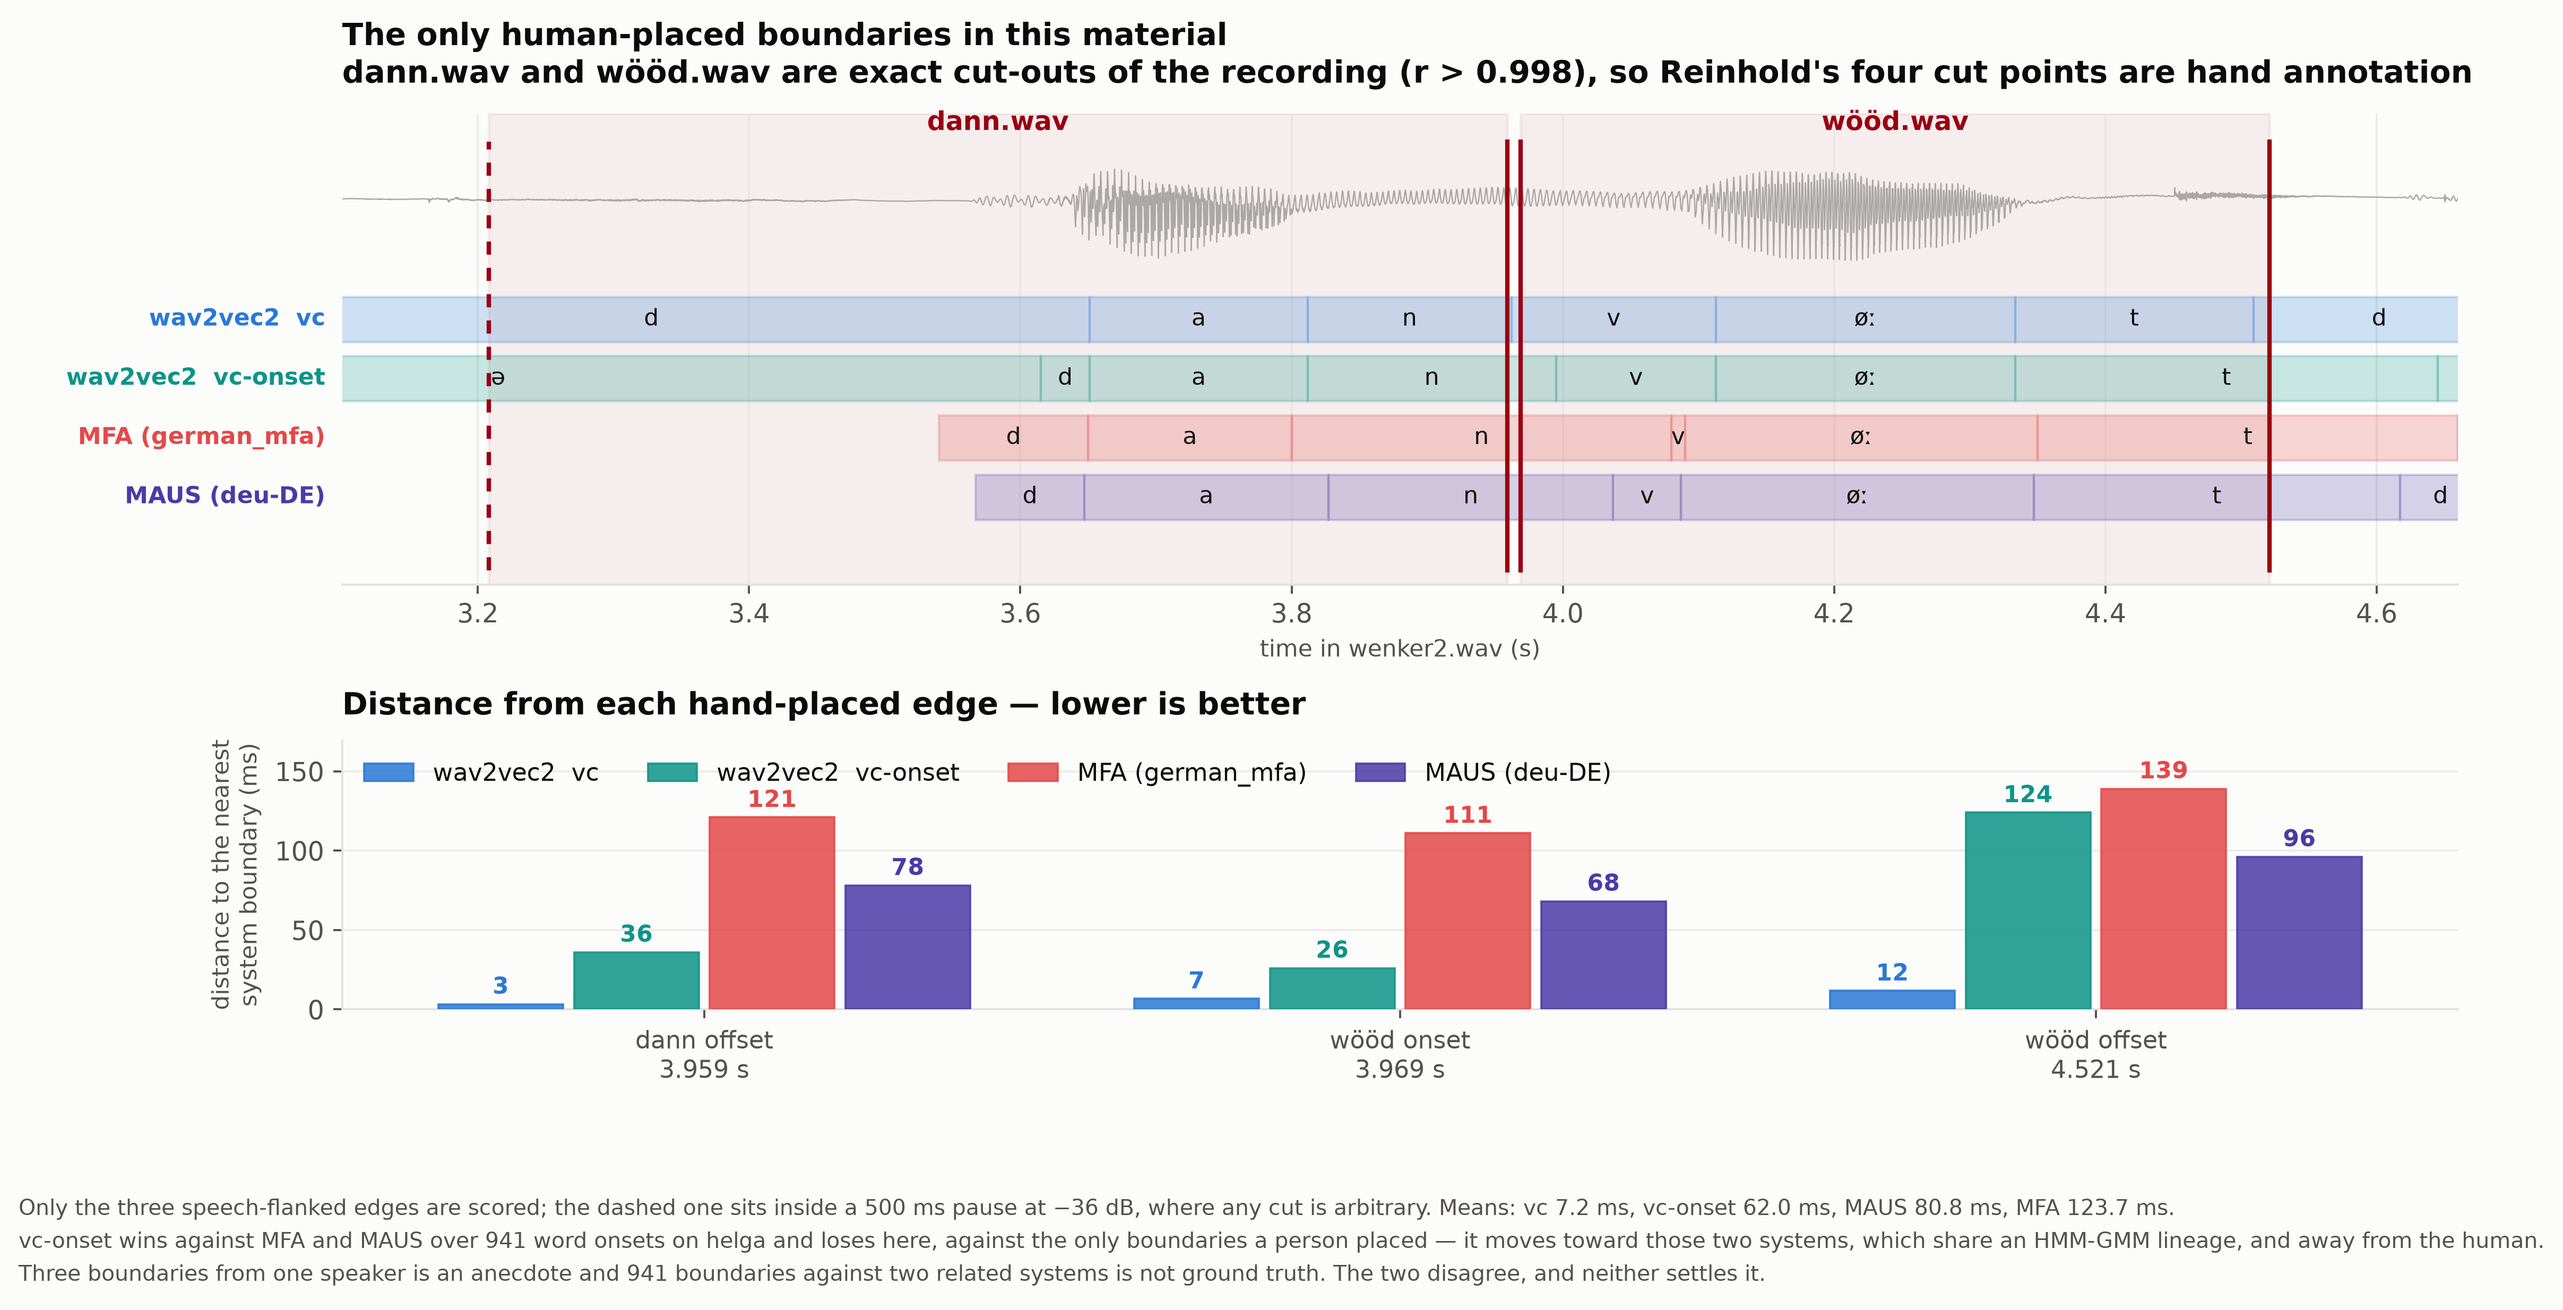
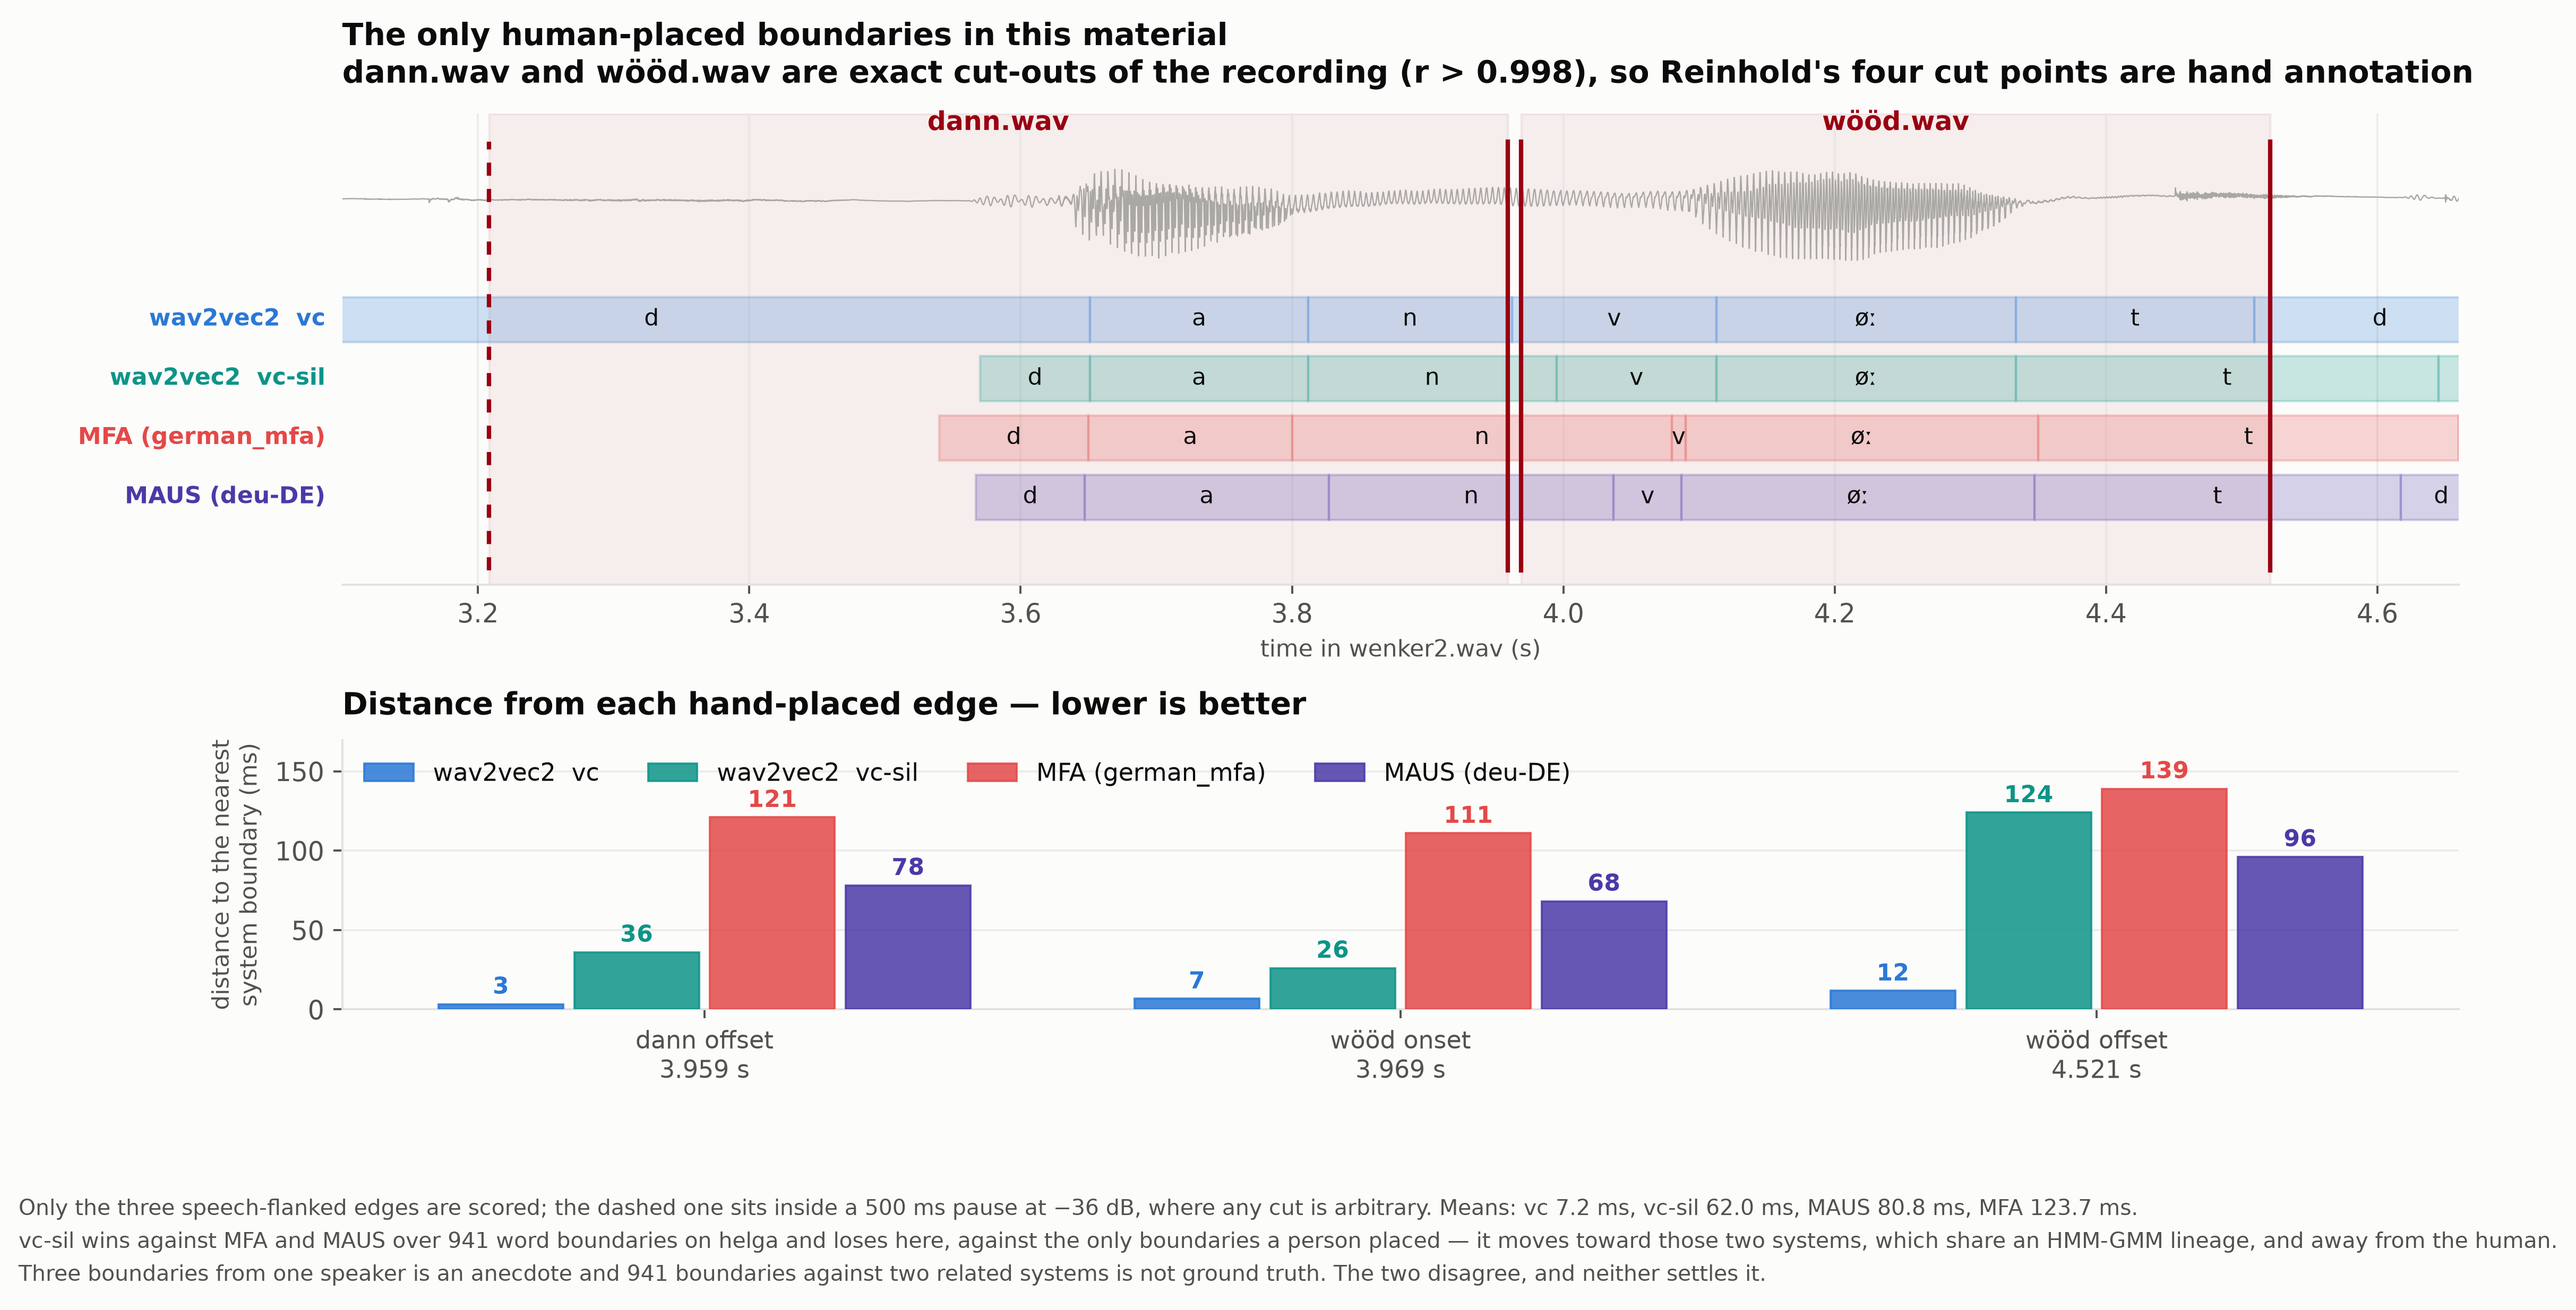
vc-sil: emit the pause instead of feeding it to the previous phone
Reported: after fixing the onset, 'the final vowels or consonants from the
previous words are extended, it supposes to be a silent'. Exactly right, and
measurable -- on wenker2 the final schwa of shnaie came out 800 ms under
vc-onset against MFA's 160, because the 620 ms MFA labels as silence had nowhere
to go but into the phone in front of it. Across the file wav2vec2 emitted 0 ms of
inter-word silence where MFA emitted 800.

The cause is that vc-onset treats a word boundary as ONE event. It is three: the
previous word ends, there is silence, the next word begins. vc-sil detects the
pause span and ends the previous phone at its start, begins the next at its end,
and leaves the middle unlabelled -- an empty interval, which is what MFA and MAUS
produce. The schwa drops 800 -> 245 ms; silence emitted goes 0 -> 860 against
MFA's 800 and MAUS's 750.

941 word boundaries over the 84 helga recordings, both references, median |d|:

                  onset vs MFA  end vs MFA  onset vs MAUS  end vs MAUS
    vc                 62.1 ms     57.2 ms        73.9 ms      70.3 ms
    vc-onset           40.0        55.0           45.4         55.4
    vc-sil             40.0        50.0           45.4         52.9

vc-sil dominates vc-onset on every column, so the figures now draw vc-sil in its
place -- and the gaps in the teal row of vc_vs_hybrid_*.png are the pauses,
visible for the first time.

vc REMAINS THE DEFAULT. Both onset-aware modes still lose to it against the three
[…]

diff --git a/README.md b/README.md
@@ -138,7 +138,8 @@ kept 42.
 | `even` | split down the middle |
 | `hybrid` | cut at the **spectral-change peak** inside a word; posterior-weighted across word edges |
 | **`vc`** ← **use this** | word-internally, C→V and V→C runs go to the **vowel**; everything else as `hybrid` |
-| `vc-onset` | `vc`, plus word boundaries at the end of the pause — **see the caveat below** |
+| `vc-onset` | `vc`, plus word boundaries at the end of the pause |
+| `vc-sil` | `vc-onset`, **plus explicit silence** — supersedes it; see the caveat below |
 
 ![what vc changes](docs/figures/vc_vs_hybrid.png)
 
@@ -172,58 +173,66 @@ This also explains the vowel. `vc` gives *øː* 240 ms against MFA's 290, but it
 short at its **left** edge, because the `/h/` in front of it starts too early.
 One cause, two symptoms.
 
-### `vc-onset`, and why it is not the default
+### `vc-onset` and `vc-sil`, and why neither is the default
 
 Placing a word onset is a different problem. Inside a word you decide which of
 two phones owns a blank run. Across a word boundary the gap usually **contains a
 real pause**, and the question is where the next word starts — which the energy
-answers directly and the CTC posteriors do not. MFA and MAUS get this for free by
-modelling silence explicitly.
+answers directly and the CTC posteriors do not.
 
-`vc-onset` keeps `vc` word-internally and puts each word-boundary gap at **the
-end of its silence**. Measured on **941 word-initial onsets across the 84 helga
-recordings**, against both references independently, it is a clear win:
+`vc-onset` puts each word-boundary gap at the end of its silence. That fixes the
+onset and leaves a worse bug behind: **the pause ends up inside the previous
+phone.** On *wenker2* the final schwa of *ʃnaɪə* came out **800 ms** against
+MFA's 160, because the 620 ms MFA labels as silence had nowhere else to go.
 
-| | vs MFA | vs MAUS |
-|---|---|---|
-| word-initial onset, `vc` | 62.2 ms | 72.9 ms |
-| word-initial onset, **`vc-onset`** | **42.5 ms** | **42.9 ms** |
-| word-final offset, `vc` | 57.4 ms | 71.8 ms |
-| word-final offset, **`vc-onset`** | **55.0 ms** | **57.1 ms** |
+`vc-sil` fixes that properly. A word boundary is not one event but three — the
+previous word ends, there is silence, the next word begins — so it ends the
+previous phone at the **start** of the pause and begins the next at its **end**,
+leaving a real hole that the TextGrid renders as an empty interval. That is what
+MFA and MAUS do. The schwa drops from 800 ms to **245**.
 
-On the `/h/` of *høːt* the onset moves from 0.341 s to **0.455** against MFA's
-0.460 — 5 ms out, from 119.
+Over **941 word boundaries on the 84 helga recordings**, against both references:
 
-> ### And yet it is worse against the only human boundaries we have
+| median \|Δ\| | onset vs MFA | end vs MFA | onset vs MAUS | end vs MAUS |
+|---|---|---|---|---|
+| `vc` | 62.1 ms | 57.2 ms | 73.9 ms | 70.3 ms |
+| `vc-onset` | **40.0** | 55.0 | **45.4** | 55.4 |
+| **`vc-sil`** | **40.0** | **50.0** | **45.4** | **52.9** |
+
+Median silence emitted per recording: `vc` and `vc-onset` **0 ms**, `vc-sil`
+250, MAUS 100, MFA 415. **`vc-sil` dominates `vc-onset` everywhere** — if you
+want one of the two, take `vc-sil`.
+
+> ### And yet both lose against the only human boundaries we have
 >
-> Two hand-cut excerpts give three speech-flanked edges that a person placed in
-> Praat. Mean distance to the nearest system boundary:
+> Two hand-cut excerpts give three speech-flanked edges a person placed in Praat.
+> Mean distance to the nearest system boundary:
 >
 > | | mean | dann offset | wööd onset | wööd offset |
 > |---|---|---|---|---|
 > | **`vc`** | **7.2 ms** | 3.2 | 6.8 | 11.7 |
-> | `vc-onset` | 62.0 ms | 36.0 | 26.0 | 124.0 |
-> | MFA | 123.7 ms | 121.0 | 111.0 | 139.0 |
+> | `vc-onset` / `vc-sil` | 62.0 ms | 36.0 | 26.0 | 124.0 |
 > | MAUS | 80.8 ms | 78.1 | 68.1 | 96.1 |
+> | MFA | 123.7 ms | 121.0 | 111.0 | 139.0 |
 >
 > ![the hand-cut excerpt edges](docs/figures/handcut_excerpts.png)
 >
-> `vc-onset` moves *towards MFA and MAUS and away from the human*. The obvious
-> reading is that it is imitating a convention those two share — they have a
-> common HMM-GMM lineage, and both put a boundary at the edge of a silence
-> interval — rather than getting closer to the truth. Agreement with them is not
-> the same as accuracy, and this is the clearest evidence in the repository that
-> the difference matters.
+> The onset-aware modes move *towards MFA and MAUS and away from the human*. The
+> obvious reading is that they are learning a convention those two share — common
+> HMM-GMM lineage, both put a boundary at the edge of a silence interval — rather
+> than getting closer to the truth. Agreement with them is not accuracy.
 >
 > **Three boundaries from one speaker is an anecdote**, and 941 boundaries
-> against two related systems is not ground truth either. The two pieces of
-> evidence genuinely disagree and neither settles it.
+> against two related systems is not ground truth either. They disagree, and
+> neither settles it.
 
-So `vc` stays the default, `vc-onset` is available, and the question is open
-until there is a hand-corrected reference. That is why one sits at the top of the
+So **`vc` stays the default**, and `vc-sil` is there for when you want a TextGrid
+whose phones do not span pauses — which for TTS training data or for anything a
+phonetician will open in Praat is usually what you want. The question is open
+until there is a hand-corrected reference, which is why one heads the
 [Roadmap](#roadmap).
 
-### What neither of them fixes
+### What none of them fixes
 
 The boundary *between* a consonant and the vowel after it. `/h/` still ends at
 0.522 s where MFA ends it at 0.470, so *øː* stays 241 ms against MFA's 290. The

diff --git a/09_alignment/README.md b/09_alignment/README.md
@@ -27,17 +27,39 @@ untouched by construction, so cross-system comparisons stay valid.
 | `even` | split down the middle |
 | `hybrid` | the spectral-change peak inside a word |
 | `vc` | the **vowel**, at C→V and V→C; otherwise as `hybrid` |
-| **`vc-onset`** | `vc`, plus word boundaries at the end of the pause |
+| `vc-onset` | `vc`, plus word boundaries at the end of the pause |
+| **`vc-sil`** | `vc-onset` **plus explicit silence** — supersedes it |
 
 `vc` leaves word-boundary gaps alone, and that is where the error concentrates:
-word-internal onsets sit 11.7 ms from MFA, word-initial ones 113.0. A word
-boundary is a different question — where does speech resume after a pause — and
-the energy answers it directly. Over **941 word-initial onsets on the 84 helga
-recordings**, `vc-onset` cuts that error from 62.2 to **42.5 ms** against MFA and
-72.9 to **42.9** against MAUS, leaving word-internal boundaries untouched.
+word-internal onsets sit 11.7 ms from MFA, word-initial ones 113.0.
 
-Applying the vowel rule at word onsets instead was tried and rejected: better on
-one recording, *worse than doing nothing* on helga. It was fitting one speaker.
+A word boundary is not one event but three — the previous word ends, there is
+silence, the next word begins. `vc-onset` cuts once at the end of the pause,
+which fixes the onset and leaves the pause inside the *previous* phone: the final
+schwa of *ʃnaɪə* came out **800 ms** against MFA's 160. `vc-sil` ends the previous
+phone at the pause's start and begins the next at its end, leaving an empty
+interval — what MFA and MAUS do. The schwa drops to **245 ms**.
+
+Over **941 word boundaries on the 84 helga recordings**, median \|Δ\|:
+
+| | onset vs MFA | end vs MFA | onset vs MAUS | end vs MAUS |
+|---|---|---|---|---|
+| `vc` | 62.1 ms | 57.2 ms | 73.9 ms | 70.3 ms |
+| `vc-onset` | **40.0** | 55.0 | **45.4** | 55.4 |
+| **`vc-sil`** | **40.0** | **50.0** | **45.4** | **52.9** |
+
+Silence emitted per recording (median): `vc` and `vc-onset` 0 ms, `vc-sil` 250,
+MAUS 100, MFA 415.
+
+**But both lose to `vc` against the only human-placed boundaries here** — 7.2 ms
+for `vc` against 62.0 for both onset-aware modes. They move toward MFA and MAUS,
+which share an HMM-GMM lineage, and away from the person. `vc` therefore stays
+the default; use `vc-sil` when you want a TextGrid whose phones do not span
+pauses, which is usually what you want for TTS data or for Praat.
+
+Two rules were tried and rejected on the way: the vowel rule at word onsets
+(better on one recording, *worse than doing nothing* on helga) and a class-rule
+fallback for pause-less gaps. Both were fitting one speaker.
 
 Over 84 recordings / 3,742 phones: median three-way spread **72.9 → 67.4 ms**,
 68 improve and 15 get worse. Every vocalic class improves and every consonantal
